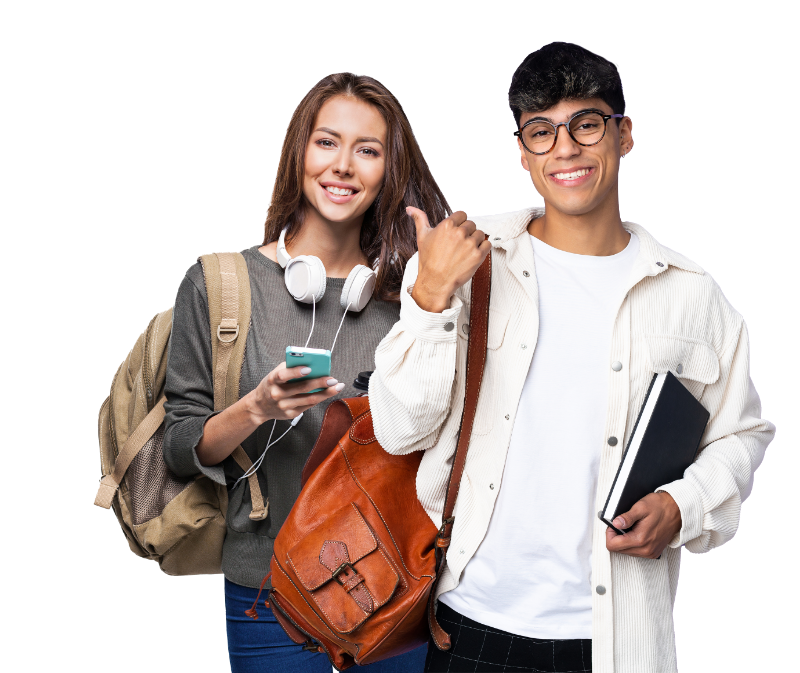
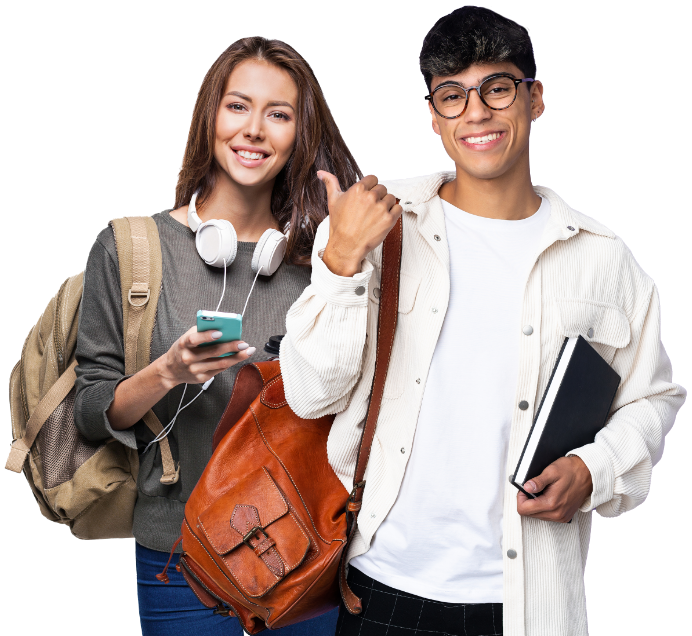
se esteblece maximos with en imagenes

diff --git a/src/components/admissions/AdmisionsUp.tsx b/src/components/admissions/AdmisionsUp.tsx
@@ -10,14 +10,15 @@ export const AdmisionsUp = () => {
                 minHeight={'auto'}
                 width={'100%'}
                 marginBottom={10}
+                
                 height={{ xs: 400, lg: 500, xl: 630 }}
                 sx={{
                     zIndex: 1,
                     position: 'relative',
                     display: 'flex',
                     flexDirection: 'column',
-                    justifyContent: 'end',
-                    alignItems: 'end'
+                    justifyContent: 'center',
+                    alignItems: 'center'
                 }}
             >
                 <CircleBanner

diff --git a/src/components/home/CucUniversityHome.tsx b/src/components/home/CucUniversityHome.tsx
@@ -55,7 +55,7 @@ export const CucUniversityHome = () => {
                 </Button>
                 </Grid>
             </Grid>
-            <Grid item xs={12} lg={7} marginTop={{ xs: 2, md: 0 }} minHeight={{ xs: '300px', sm: '400px' }}>
+            <Grid item xs={12} lg={7} marginTop={{ xs: 2, md: 0 }} minHeight={{ xs: '300px', sm: '433px' }}>
                 <ContentWithBackgroundv2 />
             </Grid>
             <Grid item xs={12} minHeight={'auto'} width={'100%'} sx={{ zIndex: 1, position: 'relative', top: -35, }}>

diff --git a/src/components/scolarships/ScolarhipsUp.tsx b/src/components/scolarships/ScolarhipsUp.tsx
@@ -17,8 +17,8 @@ export const ScolarhipsUp = () => {
                     position: 'relative',
                     display: 'flex',
                     flexDirection: 'column',
-                    justifyContent: 'end',
-                    alignItems: 'end'
+                    justifyContent: 'center',
+                    alignItems: 'center'
                 }}
             >
                 <CircleBanner

diff --git a/src/components/circle-banner/CircleBanner.tsx b/src/components/circle-banner/CircleBanner.tsx
@@ -34,6 +34,7 @@ export const CircleBanner = ({
                 borderRadius: { xs: borderRadiusXs, sm: borderRadiusSm, md: borderRadiusMd, lg: borderRadiusLg },
                 position: 'relative',
                 width: '100%',
+                maxWidth:'2000px',
                 height: '100%',
                 backgroundImage: `url(${origin}${src})`,
                 backgroundRepeat: 'no-repeat',

diff --git a/src/components/students/TextwithImage.tsx b/src/components/students/TextwithImage.tsx
@@ -36,7 +36,7 @@ const TextWithImage = () => {
         <img
           src="/assets/grupoStudiantes2.png"
           alt="Students"
-          style={{ width: '100%', height: 'auto',}}
+          style={{ width: '100%', height: 'auto', maxWidth:'1000px'}}
         />
       </Grid>
     </Grid>
